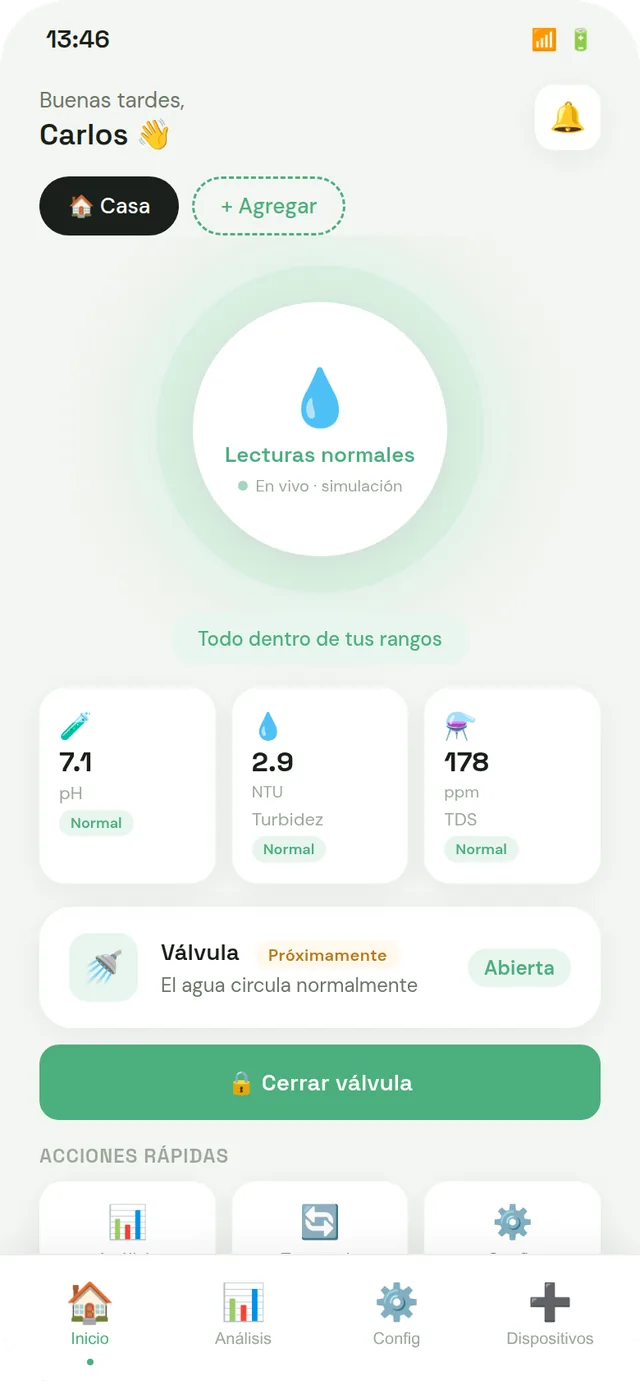
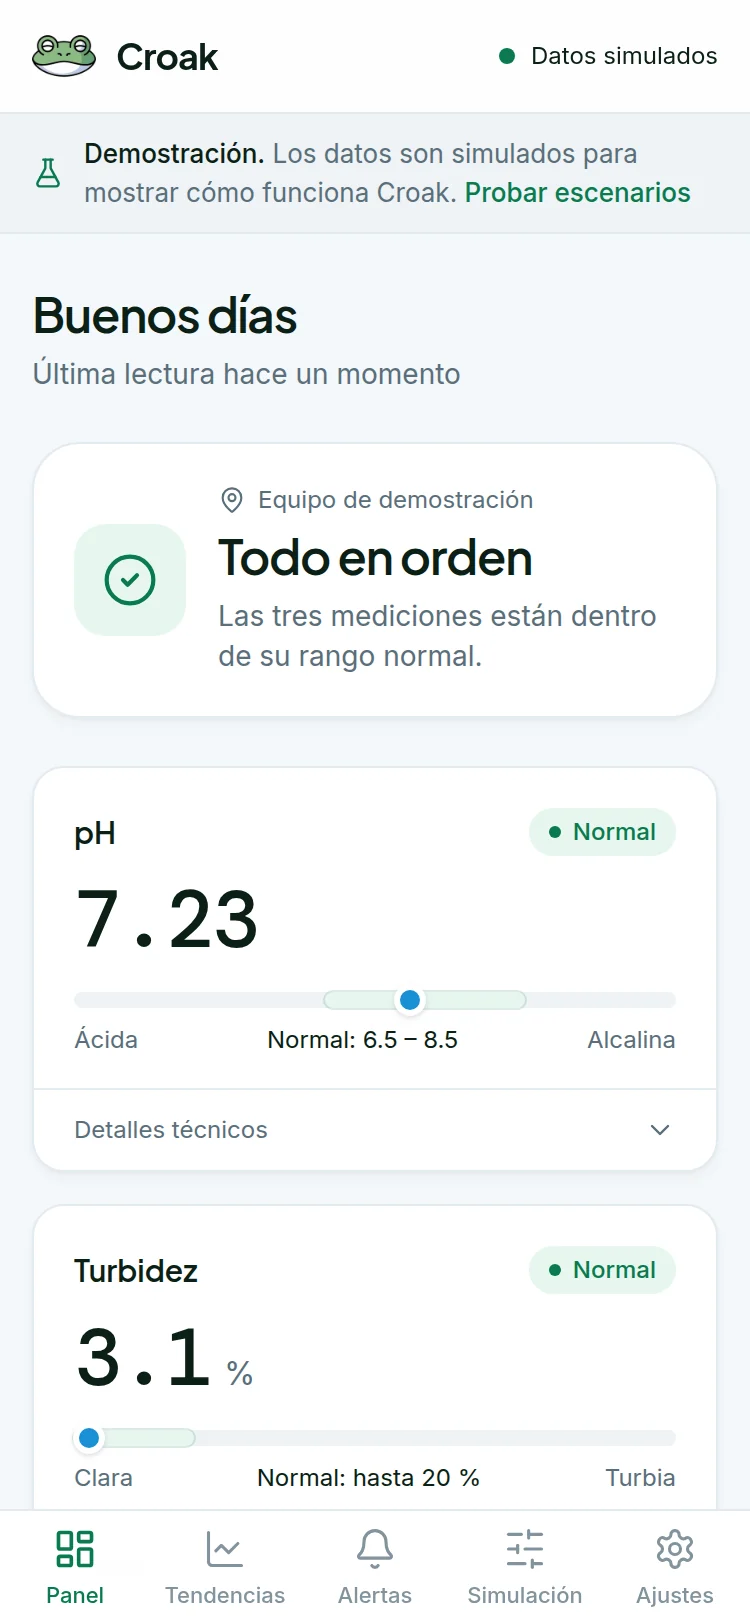
feat: show the redesigned app panel in the app section
- Replace the old app prototype screenshot with the current panel (simulated data)
- The valve is no longer shown in the app prototype; say so in its feature line

diff --git a/src/pages/HomePage.tsx b/src/pages/HomePage.tsx
@@ -45,7 +45,7 @@ const appFeatures = [
   { icon: CheckCircle2, title: "Estado general", text: "Una lectura principal indica si todo está normal o si algo requiere revisión." },
   { icon: BarChart3, title: "Historial", text: "Cómo han cambiado el pH, la turbidez y el TDS durante el día o la semana." },
   { icon: BellRing, title: "Alertas", text: "Solo cuando una lectura sale del rango normal, no por cada pequeña variación." },
-  { icon: LockKeyhole, title: "Control de válvula (en desarrollo)", text: "Estamos desarrollando una válvula para cerrar el paso del agua desde la app; en el prototipo de la app ya puedes ver cómo funcionaría." },
+  { icon: LockKeyhole, title: "Control de válvula (en desarrollo)", text: "Estamos desarrollando una válvula para cerrar el paso del agua desde la app. Todavía no forma parte del prototipo." },
 ];
 
 const scrollToContact = () => {
@@ -221,7 +221,7 @@ export function HomePage() {
             <div className="croak-scroll-reveal order-2 flex justify-center lg:order-1">
               <img
                 src={previewApp}
-                alt="Pantalla de inicio del prototipo de la app Croak"
+                alt="Panel de la app Croak con datos simulados: estado general del agua y lecturas de pH y turbidez dentro de su rango normal"
                 loading="lazy"
                 decoding="async"
                 className="w-full max-w-[340px] rounded-[2.4rem] shadow-[0_40px_120px_rgba(22,163,108,0.25)]"
